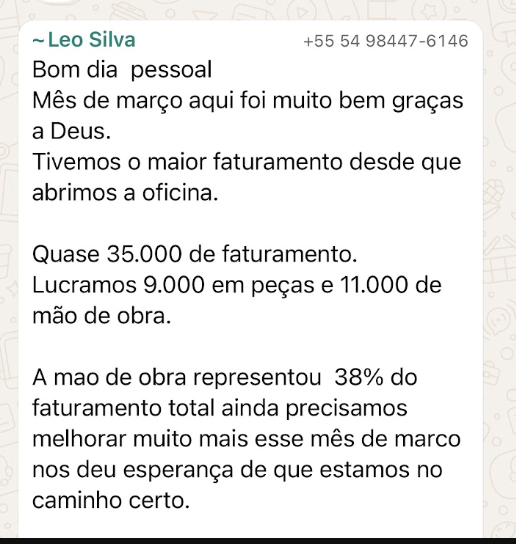
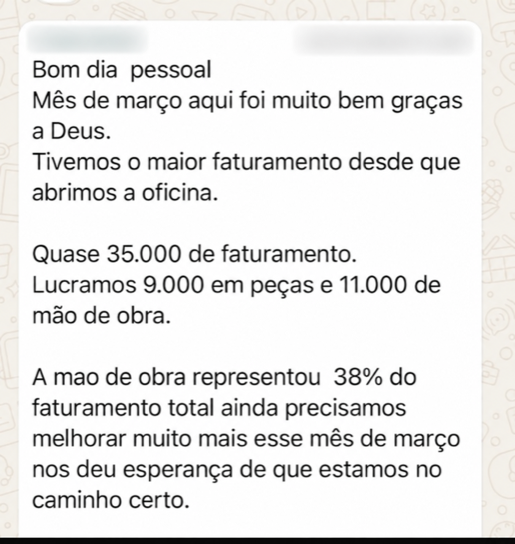
mtos ajustes

diff --git a/app/precificaçãoparaoficinas/page.tsx b/app/precificaçãoparaoficinas/page.tsx
@@ -10,13 +10,13 @@ import MateriaisParaOficinas from "@/components/MateriaisParaOficinas";
 import OfertaParaOficinas from "@/components/OfertaParaOficinas";
 import Author from "@/components/Author";
 import Faq from "@/components/Faq";
-import Guarantee from "@/components/Guarantee";
 import WhatsAppParaOficinas from "@/components/WhatsAppParaOficinas";
 import Footer from "@/components/Footer";
 import ClientEffects from "@/components/ClientEffects";
 import BackRedirect from "@/components/BackRedirect";
 import OfertaLimitadaParaOficinas from "@/components/OfertaLimitadaParaOficinas";
 import styles from "./page.module.css";
+import SectionCta from "@/components/SectionCta";
 
 export default function PrecificacaoParaOficinasPage() {
   return (
@@ -33,10 +33,9 @@ export default function PrecificacaoParaOficinasPage() {
         <PerfisParaOficinas />
         <MateriaisParaOficinas />
         <OfertaParaOficinas />
-        <Author />
-        <Faq />
+        <Author footer={<SectionCta />} />
+        <Faq footer={<SectionCta />} />
         <WhatsAppParaOficinas />
-        <Guarantee />
       </main>
       <Footer />
       <ClientEffects />

diff --git a/components/PerfisParaOficinas.tsx b/components/PerfisParaOficinas.tsx
@@ -1,3 +1,4 @@
+import SectionCta from "./SectionCta";
 import styles from "./perfis-para-oficinas.module.css";
 
 const profiles = [
@@ -26,7 +27,7 @@ export default function PerfisParaOficinas() {
         <div className="text-center">
           <span className="tag reveal">Para quem é</span>
           <h2 id="perfis-title" className="section-title reveal d1 mx-auto mt-5 max-w-[29ch]">
-            Esse treinamento é para quem precisa <span className="text-blue">cobrar certo dentro da oficina.</span>
+            Esse mini curso é para o dono de oficina que cansou de <span className="text-blue">cobrar errado e não saber como ajustar isso.</span>
           </h2>
         </div>
 
@@ -48,6 +49,7 @@ export default function PerfisParaOficinas() {
             Não importa se tua oficina fatura <span className="text-blue">R$10mil ou R$150 mil:</span> se tu vende mão de obra e peças, precisa saber quanto cobrar.
           </p>
         </div>
+        <SectionCta />
       </div>
     </section>
   );

diff --git a/components/Cta.tsx b/components/Cta.tsx
@@ -1,14 +1,17 @@
 /** Botão CTA reutilizável. Todos apontam para o mesmo checkout do produto. */
 
+import styles from "./section-cta.module.css";
+
 const CHECKOUT_URL =
   "https://payfast.greenn.com.br/x4tv742/offer/EH1p7y?ch_id=136193&b_id_1=n9vm2px&b_offer_1=A3ccG2&b_id_2=27jfr8c&b_offer_2=KaGpUB&b_id_3=4qkqx23&b_offer_3=TR6Iaq";
 
-type Variant = "lg" | "wide" | "base";
+type Variant = "lg" | "wide" | "base" | "compact";
 
 const variantClass: Record<Variant, string> = {
   base: "",
   lg: "btn--lg",
   wide: "btn--wide",
+  compact: "",
 };
 
 export default function Cta({
@@ -23,7 +26,7 @@ export default function Cta({
   className?: string;
 }) {
   return (
-    <a href={href} className={`btn ${variantClass[variant]} ${className}`.trim()}>
+    <a href={href} className={`${variant === "compact" ? styles.button : `btn ${variantClass[variant]}`} ${className}`.trim()}>
       {children}
     </a>
   );

diff --git a/components/MateriaisParaOficinas.tsx b/components/MateriaisParaOficinas.tsx
@@ -1,3 +1,4 @@
+import SectionCta from "./SectionCta";
 import styles from "./materiais-para-oficinas.module.css";
 
 const materials = [
@@ -25,6 +26,12 @@ const materials = [
     title: "Aula bônus de checklist",
     description: "Aprenda a implementar o checklist na tua oficina para conferir se a precificação está sendo feita corretamente.",
   },
+  {
+    image: "/material-apostila.jpg",
+    alt: "Apostila de precificação para oficinas",
+    title: "Apostila de precificação",
+    description: "Tenha o conteúdo em mãos para acompanhar as aulas e consultar na hora de ajustar a precificação da tua oficina.",
+  },
 ];
 
 export default function MateriaisParaOficinas() {
@@ -47,6 +54,7 @@ export default function MateriaisParaOficinas() {
             </article>
           ))}
         </div>
+        <SectionCta />
       </div>
     </section>
   );

diff --git a/components/DepoimentosParaOficinas.tsx b/components/DepoimentosParaOficinas.tsx
@@ -18,7 +18,7 @@ const cases = [
     text: "Mais um mês acima dos R$100 mil, com a meta batida antes do último dia, depois de ajustar a precificação.",
   },
   {
-    images: [{ src: "/Depoimento 002.png", alt: "Depoimento sobre o melhor mês desde a abertura da oficina", label: "" }],
+    images: [{ src: "/depoimento-002-anonimizado.png", alt: "Depoimento sobre o melhor mês desde a abertura da oficina", label: "" }],
     text: "O ajuste de precificação faz isso: o melhor mês desde que abriram a oficina!",
   },
 ];
@@ -59,7 +59,7 @@ export default function DepoimentosParaOficinas() {
         </div>
 
         <div className="reveal mt-12 text-center md:mt-16">
-          <Cta variant="lg">Quero aprender a cobrar certo</Cta>
+          <Cta variant="compact">Quero aprender a cobrar certo</Cta>
         </div>
       </div>
     </section>

diff --git a/components/CursoParaOficinas.tsx b/components/CursoParaOficinas.tsx
@@ -1,3 +1,4 @@
+import SectionCta from "./SectionCta";
 import styles from "./curso-para-oficinas.module.css";
 
 const images = [
@@ -7,6 +8,7 @@ const images = [
   { n: 2, src: "/curso-precificando.jpg", alt: "Aula: precificando de forma correta" },
   { n: 8, src: "/previa-mao-de-obra.jpg", alt: "Planilha de custo operacional e cálculo do valor da mão de obra", featured: true },
   { n: 4, src: "/curso-cobrar-certo.jpg", alt: "Aula: a importância de cobrar certo" },
+  { n: 14, src: "/material-apostila.jpg", alt: "Apostila de precificação para oficinas" },
 ];
 
 export default function CursoParaOficinas() {
@@ -23,6 +25,7 @@ export default function CursoParaOficinas() {
             </figure>
           ))}
         </div>
+        <SectionCta />
       </div>
     </section>
   );

diff --git a/components/section-cta.module.css b/components/section-cta.module.css
@@ -1,0 +1,43 @@
+.container {
+  display: flex;
+  justify-content: center;
+  margin-top: 40px;
+}
+
+.button {
+  display: inline-flex;
+  align-items: center;
+  justify-content: center;
+  max-width: 100%;
+  min-height: 46px;
+  padding: 12px 22px;
+  border: 1px solid #ffffff14;
+  border-radius: 9px;
+  background: #157a43;
+  color: #fff;
+  font-size: 14px;
+  font-weight: 650;
+  line-height: 1.55;
+  text-align: center;
+  text-decoration: none;
+  transition: background .2s ease;
+}
+
+.button:hover {
+  background: #106336;
+}
+
+.button:focus-visible {
+  outline: 3px solid #29945b;
+  outline-offset: 4px;
+}
+
+@media (max-width: 767px) {
+  .container {
+    margin-top: 36px;
+  }
+
+  .button {
+    padding: 12px 18px;
+  }
+}

diff --git a/app/precificaçãoparaoficinas/page.module.css b/app/precificaçãoparaoficinas/page.module.css
@@ -72,17 +72,17 @@
 }
 
 .page :global(.btn) {
-  background: linear-gradient(180deg, #36b0fa, #148bd4);
-  color: #071722;
+  background: #157a43;
+  color: #fff;
   border-radius: 10px;
-  box-shadow: 0 8px 28px -12px #0495f08c;
+  box-shadow: 0 8px 24px -16px #157a4380;
   font-weight: 700;
   transform: none !important;
 }
 
 .page :global(.btn):hover {
-  background: #5cc2ff;
-  box-shadow: 0 10px 30px -12px #0495f099;
+  background: #106336;
+  box-shadow: 0 8px 24px -16px #157a4380;
   filter: none;
 }
 

diff --git a/components/Faq.tsx b/components/Faq.tsx
@@ -1,6 +1,7 @@
 "use client";
 
 import { useState } from "react";
+import type { ReactNode } from "react";
 
 const faqs = [
   {
@@ -25,7 +26,7 @@ const faqs = [
   },
 ];
 
-export default function Faq() {
+export default function Faq({ footer }: { footer?: ReactNode } = {}) {
   const [open, setOpen] = useState<number | null>(null);
 
   return (
@@ -65,6 +66,7 @@ export default function Faq() {
             );
           })}
         </div>
+        {footer}
       </div>
     </section>
   );

diff --git a/components/Author.tsx b/components/Author.tsx
@@ -1,4 +1,6 @@
-export default function Author() {
+import type { ReactNode } from "react";
+
+export default function Author({ footer }: { footer?: ReactNode } = {}) {
   return (
     <section className="py-[72px] md:py-24">
       <div className="wrap">
@@ -27,6 +29,7 @@ export default function Author() {
             <div className="font-mono text-blue font-bold tracking-[.04em]">@diegomensor</div>
           </div>
         </div>
+        {footer}
       </div>
     </section>
   );

diff --git a/components/curso-para-oficinas.module.css b/components/curso-para-oficinas.module.css
@@ -51,6 +51,14 @@
 }
 
 @media (max-width: 767px) {
+  .frame:nth-child(7) {
+    order: 3;
+    grid-column: span 2;
+    width: 86%;
+    margin: 16px auto 0;
+    rotate: -3deg;
+  }
+
   .frame:nth-child(5) {
     order: 2;
     margin-top: 8px;
@@ -109,6 +117,14 @@
     top: 78%;
     right: 0;
     width: 27%;
+    z-index: 4;
+  }
+
+  .frame:nth-child(7) {
+    top: 39%;
+    left: 36%;
+    width: 32%;
+    rotate: -5deg;
     z-index: 4;
   }
 }

diff --git a/components/HeroParaOficinas.tsx b/components/HeroParaOficinas.tsx
@@ -40,7 +40,7 @@ export default function HeroParaOficinas() {
           </ul>
 
           <div className="reveal d3 flex w-full flex-col items-center gap-[14px] sm:w-auto">
-            <Cta variant="lg">Quero aprender a cobrar certo</Cta>
+            <Cta variant="compact">Quero aprender a cobrar certo</Cta>
             <span className="reassure">
               Acesso imediato • Aulas práticas • Planilha + tabela de markup
             </span>
